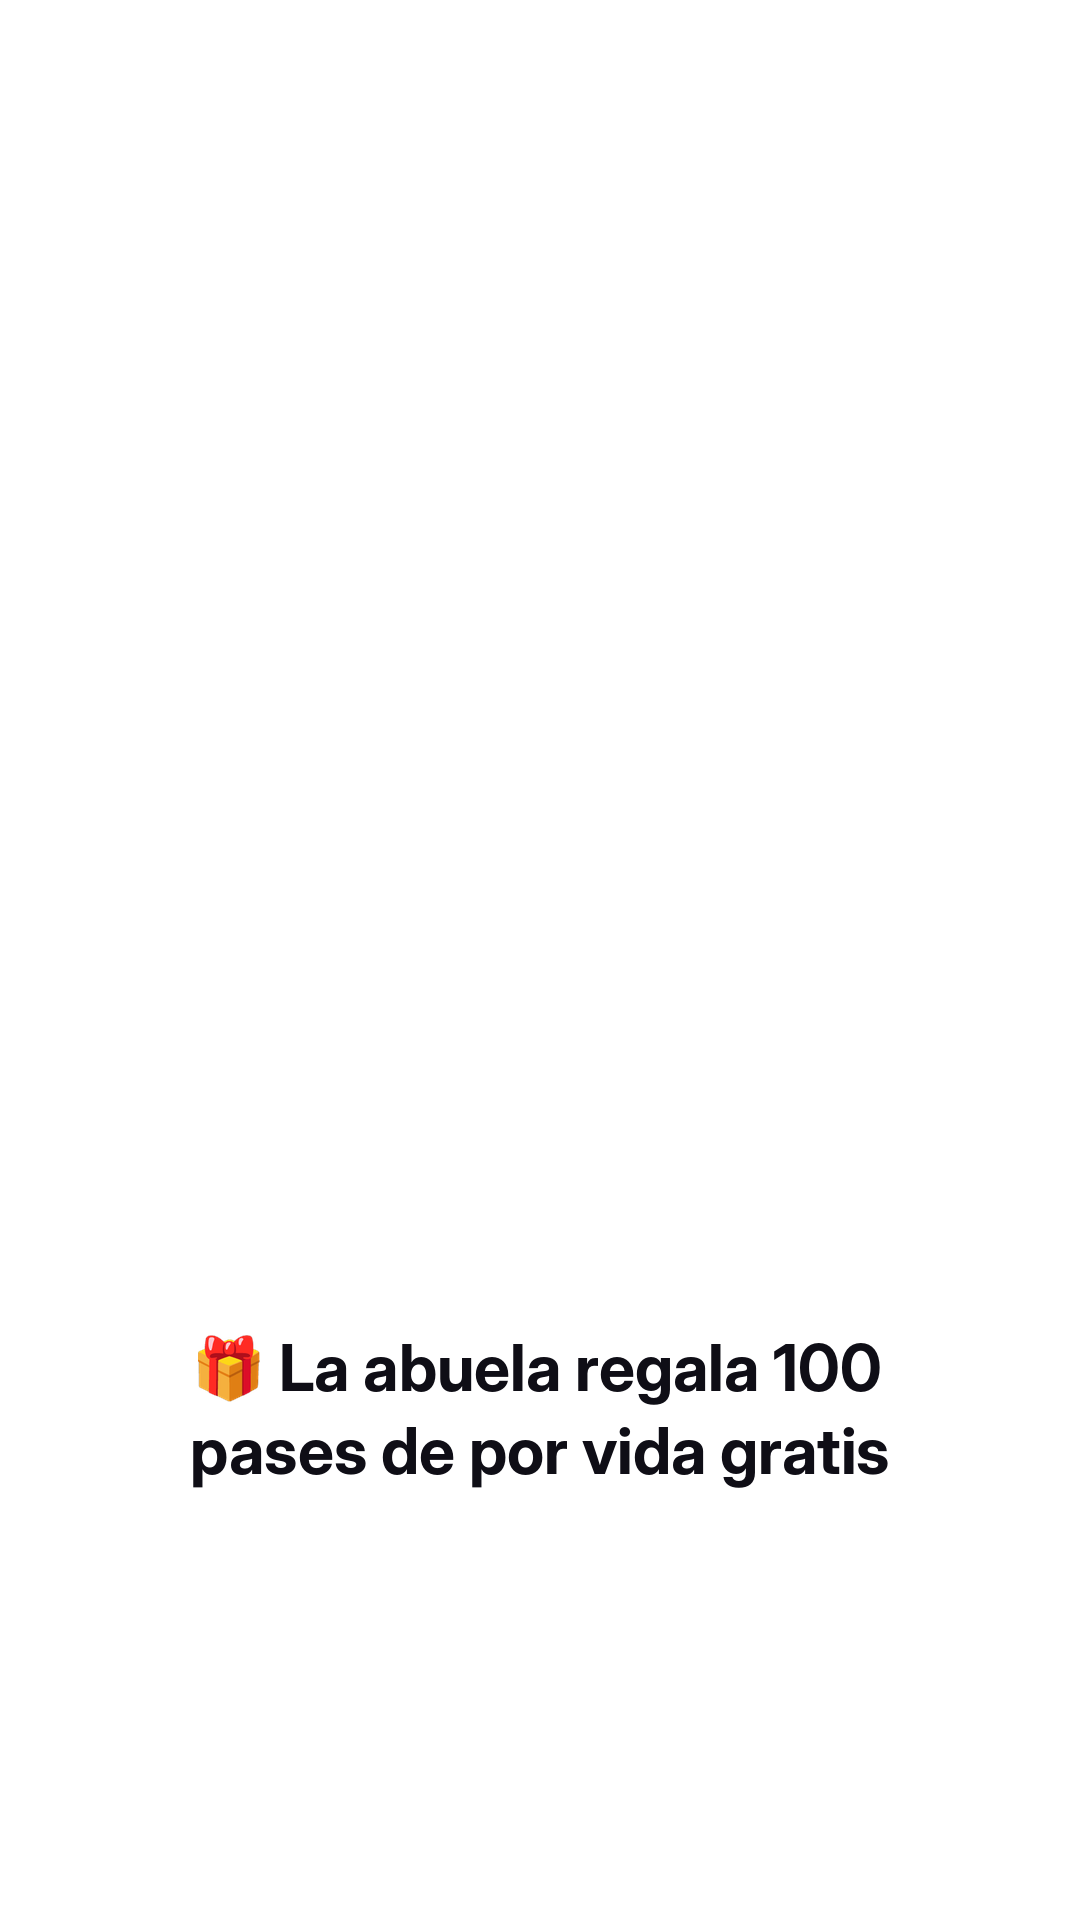
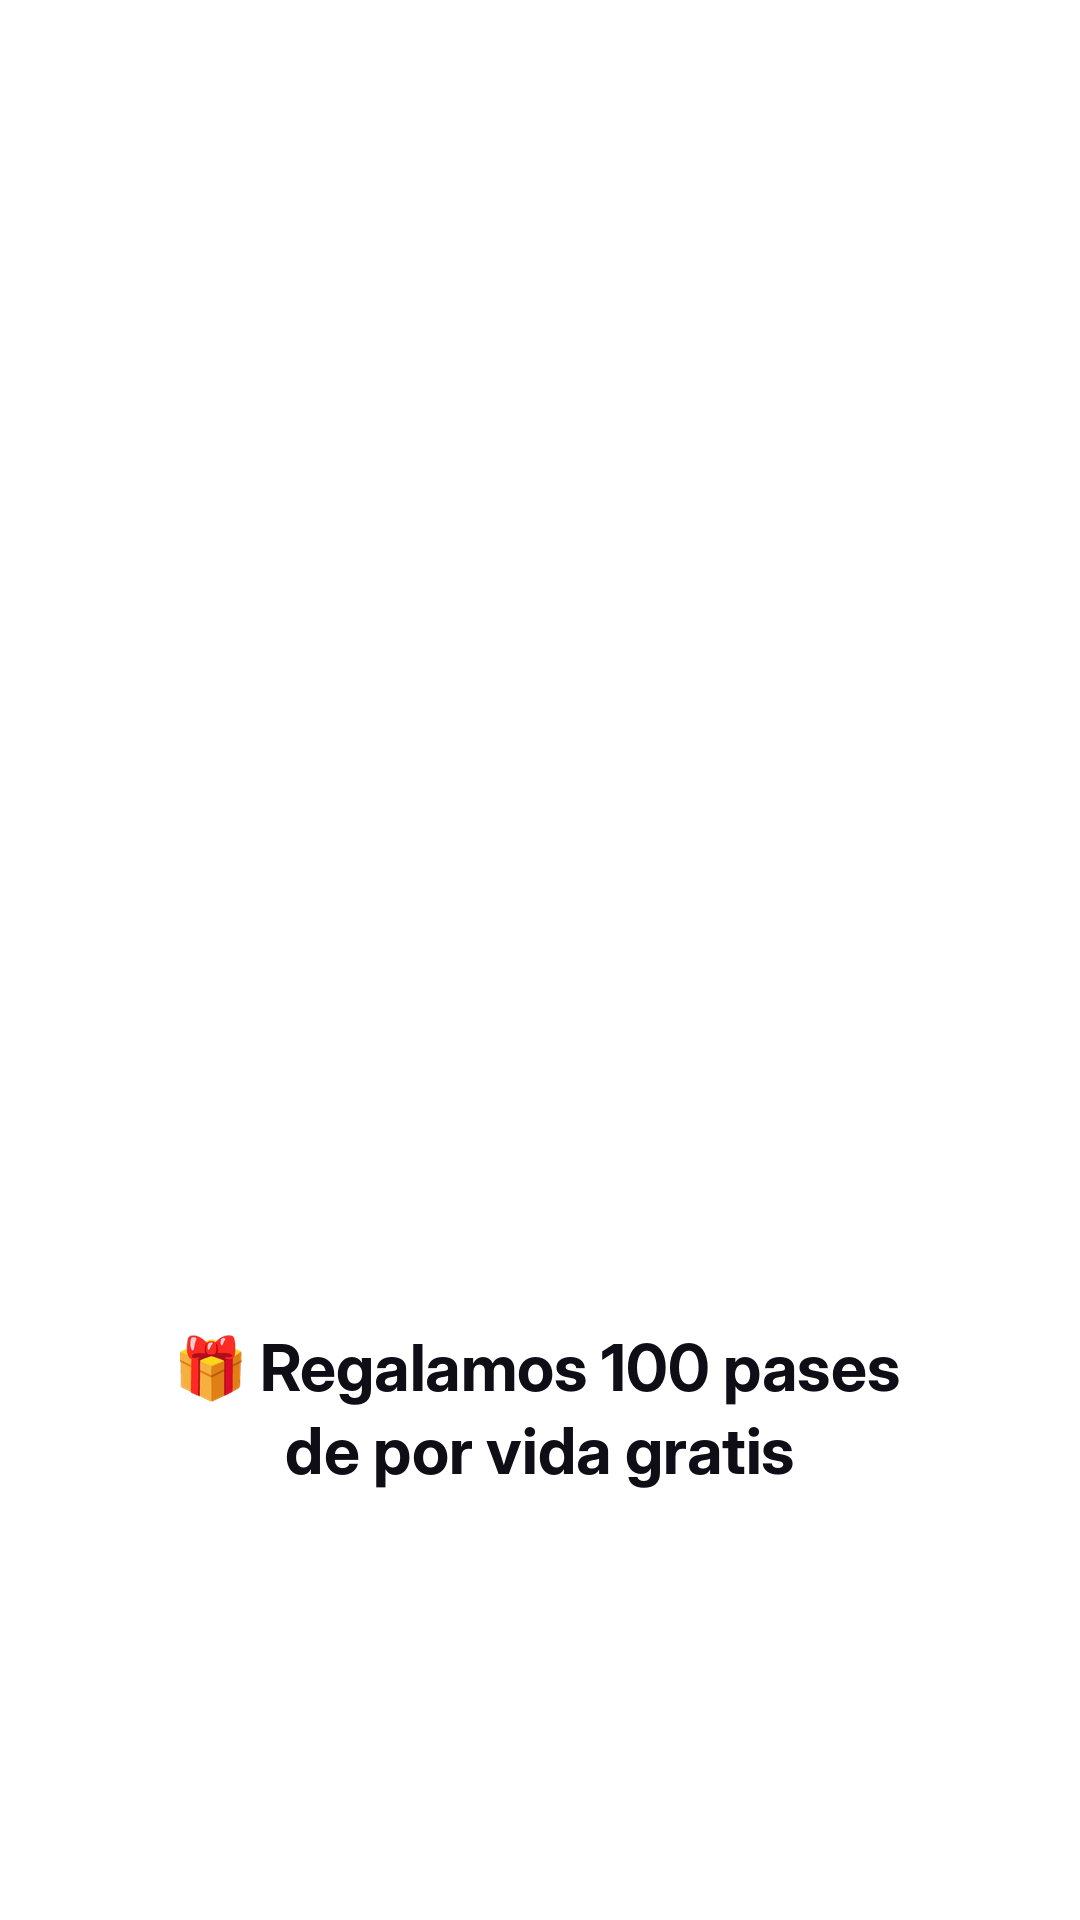
Pass giveaway: neutral captions
Claude-Session: https://claude.ai/code/session_01Nfw8GqVW5u5Dp8ws2maeUt

Changed region(s): [[0.1528, 0.6875, 0.825, 0.7812]]

diff --git a/pass_overlays.py b/pass_overlays.py
@@ -1,13 +1,13 @@
-"""Overlays for 'Grandma gives away 100 lifetime passes' video. Usage: python3 pass_overlays.py OUT_DIR"""
+"""Overlays for '100 lifetime passes giveaway' video. Usage: python3 pass_overlays.py OUT_DIR"""
 import os, sys
 from vlc_overlays import card
 
 HOOK = {
-    "en": ["🎁 Grandma is giving away", "100 free lifetime passes"],
-    "nl": ["🎁 Oma deelt 100 gratis", "lifetime-passes uit"],
-    "fr": ["🎁 Mamie offre 100 pass", "à vie gratuits"],
-    "es": ["🎁 La abuela regala 100", "pases de por vida gratis"],
-    "de": ["🎁 Oma verschenkt 100", "Lifetime-Pässe gratis"],
+    "en": ["🎁 Giving away 100", "free lifetime passes"],
+    "nl": ["🎁 We geven 100 gratis", "lifetime-passes weg"],
+    "fr": ["🎁 On offre 100 pass", "à vie gratuits"],
+    "es": ["🎁 Regalamos 100 pases", "de por vida gratis"],
+    "de": ["🎁 Wir verschenken 100", "Lifetime-Pässe gratis"],
 }
 PAY = {
     "en": ["Kanalo Pro. Free forever.", "Only the first 100."],
